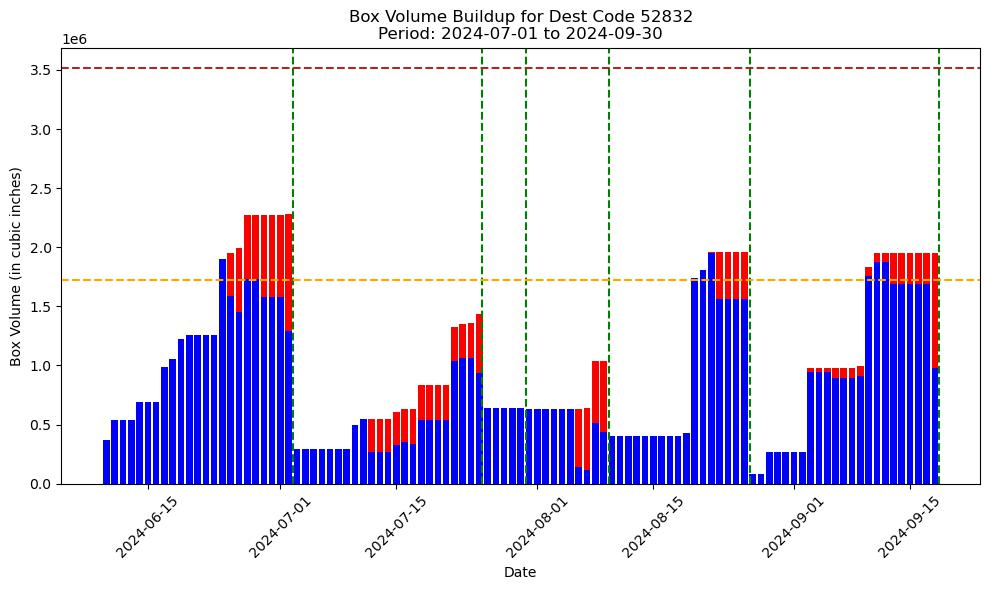
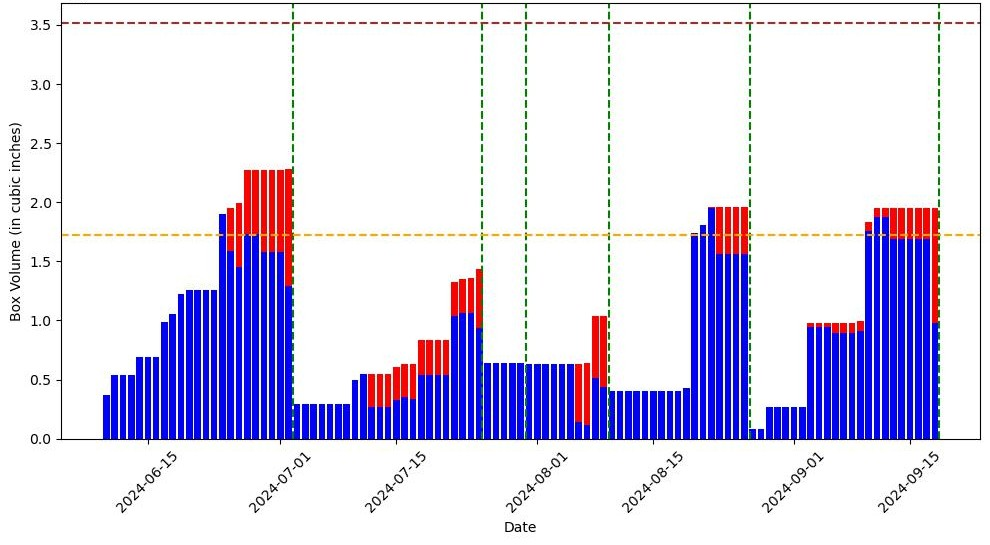
added projects and website

diff --git a/src/pages/work_projects/dynamic_utlization.py b/src/pages/work_projects/dynamic_utlization.py
@@ -1,0 +1,179 @@
+import dash
+from dash import html
+import dash_bootstrap_components as dbc
+
+dash.register_page(__name__, path="/work_projects/dynamic_utlization", name="Dynamic Container Utilization")
+
+layout = dbc.Container([
+    html.H2("Container Utilization Optimization", className="mb-2"),
+    html.P(
+        "End-to-end analysis from customer order placement to container stuffing, identifying inefficiencies and developing scenarios to guide senior leadership decisions on optimizing utilization and reducing costs.",
+        className="text-muted"
+    ),
+    html.Hr(),
+
+    # Problem statement
+    html.H4("Problem statement", className="mt-3"),
+    html.P(
+        "From the moment a customer places an order to the final container stuffing, multiple supply chain steps determine the final utilization rate. "
+        "The customer’s liquid volume utilization per container was consistently below target. Existing tools only measured 'liquid utilization' shipment data, "
+        "which did not capture the true dynamic (dimensional) utilization. The challenge was to quantify the issue, identify root causes, and design solutions that could be replicated program-wide."
+    ),
+
+    # Stakeholders
+    html.H4("Stakeholders", className="mt-4"),
+    html.Ul([
+        html.Li("Ford FCSD Export Program"),
+        html.Li("DSV Advanced Analytics Team"),
+        html.Li("DSV eDC (Supply Chain Program) Team"),
+        html.Li("Warehouse Operations Teams"),
+    ]),
+
+    # Original products
+    html.H4("Original products", className="mt-4"),
+    html.Ul([
+        html.Li("Excel report measuring liquid utilization per container based on shipment data."),
+        html.Li("Manual analysis using shipment records.")
+    ]),
+
+    # Solutions developed
+    html.H4("Solutions developed", className="mt-4"),
+
+    html.H5("Step 1 – Baseline visibility and stakeholder engagement"),
+    html.Ul([
+        html.Li("More extensive Power BI report showing the utilization over time was developed based on container utilization data captured."),
+        html.Li("Visited warehouses to observe stuffing processes, collect operational feedback, and validate data gaps."),
+        html.Li("Identified that commercial invoices recorded overpack dimensions but not the true packing efficiency within those overpacks."),
+        html.Li("Confirmed overpacks with suboptimal shapes and combinations reduced container stuffing efficiency."),
+        html.Li("Noted that re-optimizing freight post-commercial invoice creation was avoided due to administrative burdens.")
+    ], className="mb-3"),
+
+    html.H5("Step 2 – Data integration and initial quantification"),
+    html.Ul([
+        html.Li("Extracted commercial invoice data from PDF and combined with warehouse and shipping datasets."),
+        html.Li("Developed Python scripts to clean, combine, and analyze datasets, covering every step from order receipt to container stuffing."),
+        html.Li("Estimated optimization potential (~40%) by loading overpack data into a load optimizer for simulated stuffing scenarios."),
+        html.Li("Identified lack of volume forecasting per location, leaving operations without a planning tool.")
+    ], className="mb-3"),
+
+    html.H5("Step 3 – Scenario development for leadership decision-making"),
+    html.Ul([
+        html.Li("Created three scenarios to simulate alternative stuffing strategies and quantify savings potential:"),
+        html.Li([
+            html.Strong("Scenario 1:"), " Ignored warehouse cycle times; stuffed containers optimally based on overpack dimensions to find theoretical minimum container count."
+        ]),
+        html.Li([
+            html.Strong("Scenario 2:"), " Grouped shipments by week; assumed basic dimensional planning available, allowing more effective overpack combinations — showing ~30% savings potential."
+        ]),
+        html.Li([
+            html.Strong("Scenario 3:"), " Assigned cycle time targets per overpack; incorporated FCL/LCL cost models; used Python logic to identify most cost-effective shipping method per combination."
+        ]),
+        html.Li("All scenarios provided quantified trade-offs for leadership to weigh cost savings vs. operational constraints.")
+    ], className="mb-3"),
+
+    html.H5("Step 4 – Scaled analysis with SQLLite, Python Dash, and API-driven optimization"),
+    html.Ul([
+        html.Li(
+            "Received larger datasets (all overpacks and part shipments, plus assumed box shapes) and integrated them into an SQLLite database."),
+        html.Li(
+            "Stored intermediate analysis results to allow fast UI interaction in Dash without reprocessing raw data."),
+        html.Li(
+            "Combined full FCL/LCL/AIR shipment data to detect trends and label 'optimizable' volumes — including unexpected AIR shipments to internal warehouses."),
+        html.Li(
+            "Grouped parts into shape, weight, and recurring volume segments to identify underperforming categories."),
+        html.Li(
+            "Identified parts as suboptimal when inventory at destination indicated shipments were replenishment moves — where more cost-effective methods should have been chosen."),
+        html.Li(
+            "Applied Google OR-Tools and an API-driven analysis setup to determine optimal overpack selection according to the 80-20 principle, prioritizing shapes that fit most commonly shipped parts and were easiest to combine."),
+        html.Li(
+            "Ran simulations on overpack combinations to achieve maximum dynamic utilization while aligning with operational feasibility.")
+    ]),
+
+    html.H5("Step 5 – Transition to enterprise-level solutions"),
+    html.Ul([
+        html.Li([
+            html.Strong("Solution 1 (SCM Program): "),
+            "Deploy DSV Supply Chain Management tool to automate dataset integration, track order-level events end-to-end, ",
+            "enable EDI with the customer, and surface KPIs in Power BI. ",
+            "The program will also incorporate dynamic container utilization calculations so utilization is measured natively within the monitoring platform."
+        ]),
+        html.Li([
+            html.Strong("Solution 2 (Advanced Analytics): "),
+            "Build and maintain the scenario engine outside the SCM program. ",
+            "This service generates optimization scenarios (cycle time targets, FCL/LCL mix, stuffing plans) using Python/Dash and OR-Tools, ",
+            "feeding results back to stakeholders for decision-making."
+        ])
+    ]),
+
+    html.Hr(),
+
+    # Visuals placeholder
+    html.H4("Visuals Used In Analysis", className="mt-3"),
+    html.Div([
+        html.Figure([
+            html.Img(
+                src="/assets/Box_Volume_Buildup_52832_2024-07-01_to_2024-09-30.jpg",
+                alt="Box volume buildup vs 40ft container loads with cycle-time and target thresholds",
+                style={
+                    "maxWidth": "100%",
+                    "borderRadius": "12px",
+                    "border": "1px solid #e6e6e6"
+                }
+            ),
+            html.Figcaption(
+                "Green = 40ft load events. Blue/red bars = liquid volume buildup by overpack. "
+                "Containers often depart under the liquid-volume target due to dynamic utilization and cycle-time triggers. "
+                "Lack of forward visibility on orders limits optimal overpack combinations."
+            )
+        ]),
+
+        dbc.Row([
+            dbc.Col(dbc.Card([
+                dbc.CardBody([
+                    html.H6("Avg Liquid Fill", className="card-title text-muted"),
+                    html.H4("58%", className="card-text text-primary")
+                ])
+            ], className="text-center"), width=3),
+
+            dbc.Col(dbc.Card([
+                dbc.CardBody([
+                    html.H6("TEU Below Target", className="card-title text-muted"),
+                    html.H4("60%", className="card-text text-danger")
+                ])
+            ], className="text-center"), width=3),
+
+            dbc.Col(dbc.Card([
+                dbc.CardBody([
+                    html.H6("Avoidable TEU", className="card-title text-muted"),
+                    html.H4("4 TEU", className="card-text text-warning")
+                ])
+            ], className="text-center"), width=3),
+        ], className="mt-3 g-2")
+    ]),
+
+    html.Hr(),
+
+    # Impact
+    html.H4("Impact", className="mt-3"),
+    html.Ul([
+        html.Li("Mapped inefficiencies from customer order entry to container stuffing, pinpointing underutilization causes."),
+        html.Li("Quantified cost-saving opportunities up to 40% through scenario-based optimization."),
+        html.Li("Provided leadership with actionable trade-offs between cost, cycle times, and operational feasibility."),
+        html.Li("Established scalable, repeatable process for utilization analysis and optimization."),
+        html.Li("Enabled analysis transition to project to implement enterprise tools for automated monitoring and scenario simulation.")
+    ]),
+
+    html.Hr(),
+
+    # Tech stack
+    html.H4("Tech stack", className="mt-3"),
+    dbc.Stack([
+        dbc.Badge("Power BI", color="primary", className="me-2"),
+        dbc.Badge("Python", color="secondary", className="me-2"),
+        dbc.Badge("Pandas", color="info", className="me-2"),
+        dbc.Badge("Dash", color="dark", className="me-2"),
+        dbc.Badge("SQLLite", color="success", className="me-2"),
+        dbc.Badge("APIs", color="danger", className="me-2"),
+    ], direction="horizontal", gap=2, className="mb-4"),
+
+], fluid=True)

diff --git a/src/pages/projects.py b/src/pages/projects.py
@@ -37,10 +37,11 @@ projects = [
     },
     {
         "id": 2,
-        "slug": "fcsd-demurrage",
-        "title": "Container Demurrage Analysis",
-        "summary": "Reduced costly demurrage fees by analyzing container pool dynamics and pinpointing the main operational drivers.",
-        "details": read_md("fcsd-demurrage"),
+        "slug": "dynamic_utlization",
+        "title": "Dynamic Container Utilization",
+        "summary": "Optimized container utilization from order to stuffing through end-to-end supply chain analysis, identifying 40% savings potential."
+                "Developed scenario-based tools enabling senior leadership to make data-driven cost and efficiency decisions.",
+        "details": read_md("dynamic_utlization"),
     },
 ]
 
@@ -347,11 +348,11 @@ def layout():
         dbc.Col([  # Column inside the row
             dbc.Card(
                 [
-                    dbc.CardHeader("Titanic analysis"),
+                    dbc.CardHeader("Dash Resume Website"),
                     dbc.CardBody(
                         [
-                            html.P("A brief analysis of the Titanic dataset.", className="card-text"),
-                            dbc.Button("Go to GitHub", href="https://github.com/yoerisamwel/titanic-analysis",
+                            html.P("My professional portfolio website highlighting data-driven supply chain optimization projects, blending logistics expertise with advanced analytics.", className="card-text"),
+                            dbc.Button("Go to GitHub", href="https://github.com/yoerisamwel/resume_yoeri_samwel/tree/master",
                                        color="primary", external_link=True, target="_blank")
                         ]
                     )
